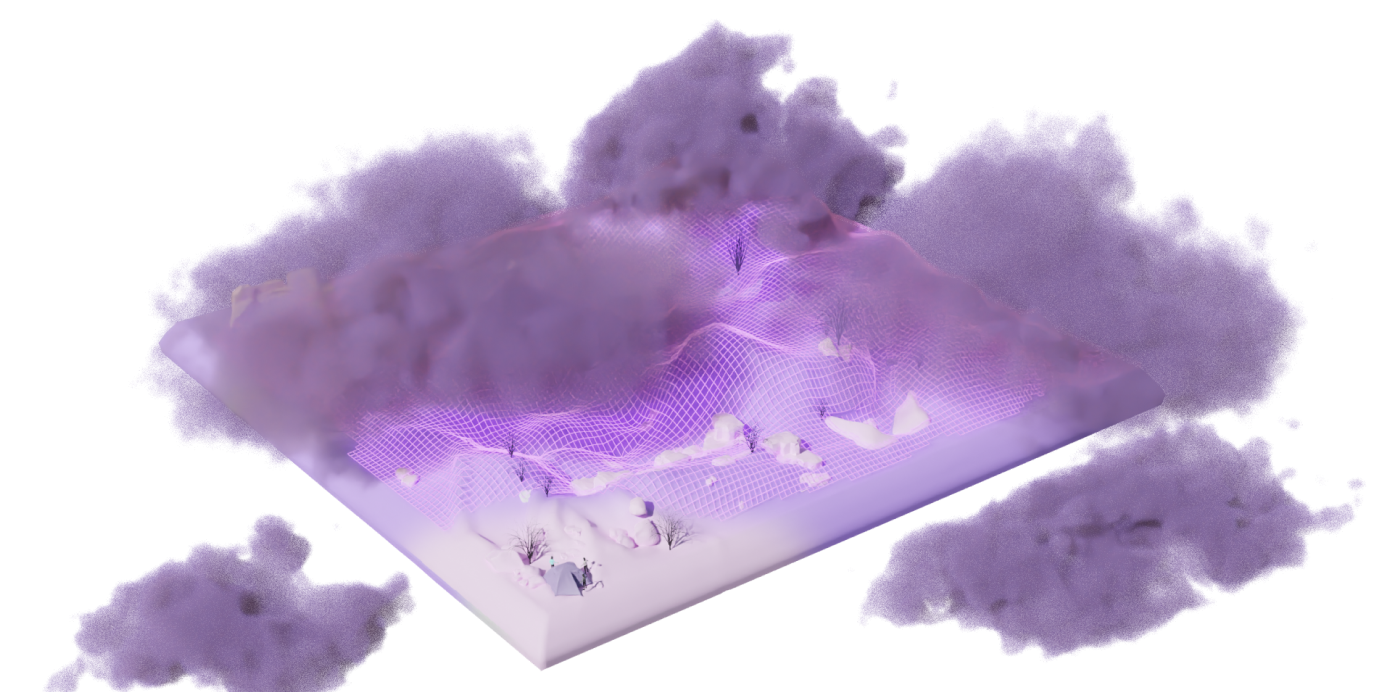
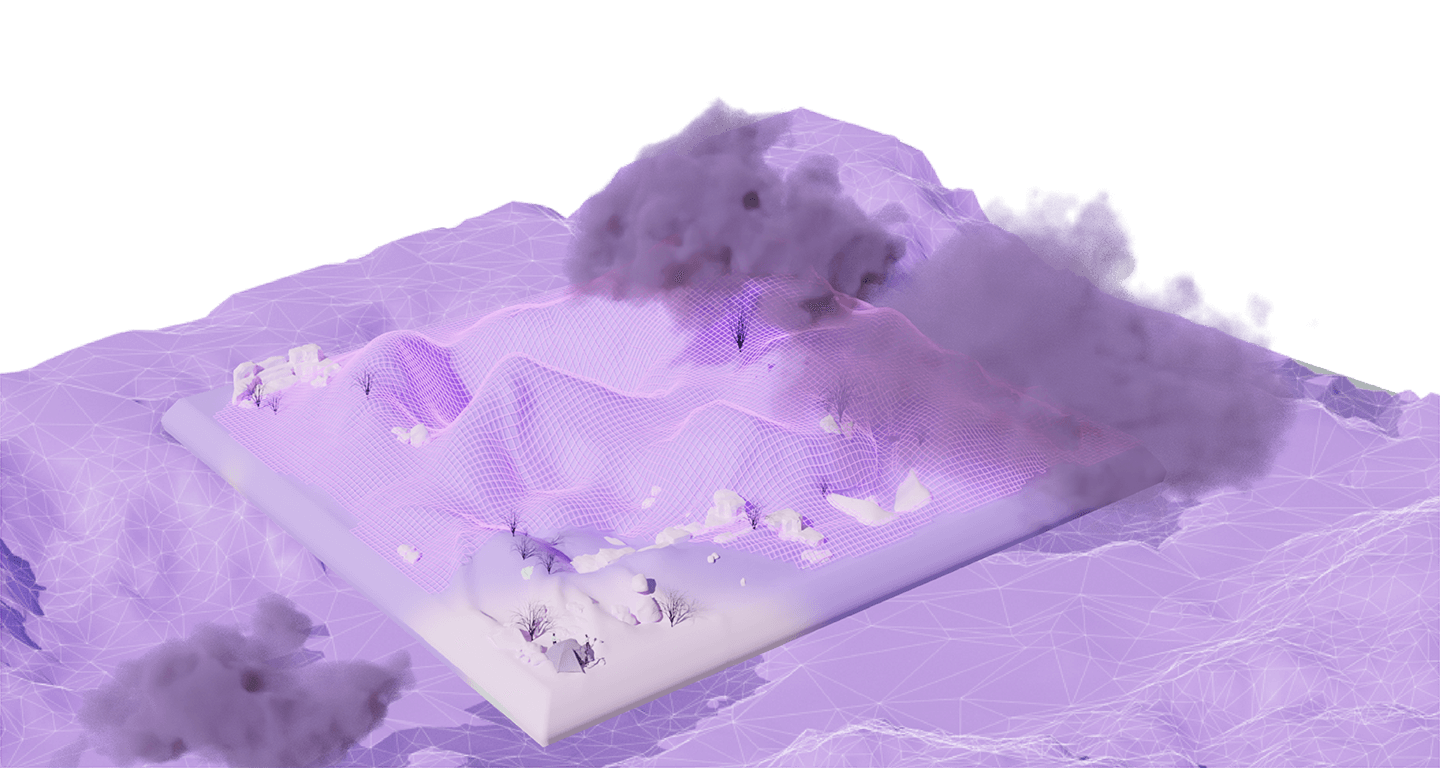
add story&faq btn in nav in dashboard

diff --git a/pages/invaria2222.jsx b/pages/invaria2222.jsx
@@ -4,7 +4,7 @@ import { Twitter, Discord } from '../components/icons/Link'
 import { ScrollToTop, QA, Footer, Navbar, ModalStory } from '../components';
 import { tutorialsList, faqList } from "../src/constants";
 import Image from 'next/image'
-import {disableScroll} from '../src/utils/disableScroll'
+import { disableScroll } from '../src/utils/disableScroll'
 
 function App() {
   const [headerBackground, setHeaderBackground] = useState(true);
@@ -23,21 +23,16 @@ function App() {
       <Navbar headerBackground={headerBackground} />
       <ModalStory />
       <div className="w-full flex flex-col justify-center items-center h-0 ">
-        <label htmlFor="my-modal-1" onClick={()=>disableScroll()} className="btn modal-button w-[183px] md:w-min btnShadow bg-white opacity-80 hover:bg-white px-6 py-3 text-sm text-info rounded absolute top-[272px] md:top-[408px] md:left-[245px] z-20 normal-case border-none">
+        <label htmlFor="my-modal-1" onClick={() => disableScroll()} className="btn modal-button w-[183px] md:w-min btnShadow bg-white opacity-80 hover:bg-white px-6 py-3 text-sm text-info rounded absolute top-[272px] md:top-[408px] md:left-[245px] z-20 normal-case border-none">
           Storyline</label>
         <a href={`#faq`} className='btn w-[183px] md:w-max btnShadow bg-white opacity-80 hover:bg-white px-6 py-3 mt-4 md:mt-0 text-sm text-info rounded absolute top-[328px] md:top-[280px] md:right-1/4 normal-case border-none z-20 ' >
           FAQ & Tutorials</a>
       </div>
       <div className="relative">
-        <img className='h-screen min-h-screen w-full object-cover ' draggable="false" src='/bg/bg_phase0.png' alt="bg_phase0" />
-        {/* <div className="hidden md:flex flex-col max-w-0 "> */}
-        <img className=" cloud1 absolute top-56 md:top-[161px] -left-16 md:left-8 right-0 w-[700px] md:w-[700px] object-contain z-10 " draggable="false" src='/cloud1.png' alt="cloud1" />
-        <img className=" cloud2 absolute top-[430px] -right-20 md:right-0 w-[600px] md:w-[600px] object-contain z-10 " draggable="false" src='/cloud2.png' alt="cloud2" />
-        {/* </div> */}
-        {/* <div className=" flex md:hidden ">
-          <img className=" absolute top-56 md:top-[161px] -left-16 md:left-8 right-0 w-[700px] md:w-[700px] object-contain z-10" src='/cloud1.png' alt="cloud1" />
-          <img className=" absolute top-96 md:top-[430px] right-0 w-[350px] md:w-[600px] object-contain z-10" src='/cloud2.png' alt="cloud2" />
-        </div> */}
+        <img className=' absolute top-0 h-screen min-h-screen w-full object-cover ' draggable="false" src='/bg/bg_phase0.png' alt="bg_phase0" />
+        <img className=' z-0 h-screen min-h-screen w-full object-cover ' draggable="false" src='/bg/bg_land.png' alt="bg_land" />
+        {/* <img className=" cloud1 absolute top-56 md:top-[161px] -left-16 md:left-8 right-0 w-[700px] md:w-[700px] object-contain z-10 " draggable="false" src='/cloud1.png' alt="cloud1" />
+        <img className=" cloud2 absolute top-[430px] -right-20 md:right-0 w-[600px] md:w-[600px] object-contain z-10 " draggable="false" src='/cloud2.png' alt="cloud2" /> */}
         <div className='mt-[88px]  hidden absolute top-0 left-[24px] md:flex flex-row items-start justify-start h-[592px] w-[325px] text-white indent-0.5 font-normal text-sm z-10 animate-fade-in-down'>
           <div className='flex flex-col items-center justify-center mr-3 '>
             <span className="flex h-3 w-3 justify-center items-center">
@@ -46,12 +41,12 @@ function App() {
             </span>
             <div className='h-[540px] w-[1px] border-l bg-white -mt-1 z-0'></div>
           </div>
-            「Year… 2222, Location… InVaria, Weather…
-            Radiation Fog and Cold」Something is
-            happening in this world…
-            <br /><br />
-            Build up communication channel… Discord
-            set up… Twitter launched… Now we can communicate, discuss with each others about InVaria and the ideas we have there!
+            A tribe of humans find out a device with 
+            “CRYPTIC REFLECTOR” words carved on it, 
+            there is an unclear description shows…
+            「Connecting…Connecting…, Connect to 
+            Real World, the Reflector Indicate Power… 
+            Asset will…」
         </div>
         <div className="m-6 flex justify-between absolute bottom-[0px] right-0 z-20">
           <Twitter />

diff --git a/components/Navbar.jsx b/components/Navbar.jsx
@@ -1,5 +1,6 @@
 import React, { useEffect, useState } from 'react'
 import Link from 'next/link'
+import { useRouter } from 'next/router'
 import { ethers } from 'ethers'
 import { useNetwork, useAddress, useMetamask, useWalletConnect, useDisconnect } from '@thirdweb-dev/react'
 import { SiweMessage } from 'siwe'
@@ -10,6 +11,7 @@ import { fetchPrice } from '../src/utils/fetchPrice'
 import { disableScroll, enableScroll } from '../src/utils/disableScroll'
 
 const Navbar = ({ headerBackground }) => {
+  const router = useRouter()
   const address = useAddress();
   const network = useNetwork();
   const [getCoinPrice, setgetCoinPrice] = useState()
@@ -22,7 +24,11 @@ const Navbar = ({ headerBackground }) => {
   const connectWithWalletConnect = useWalletConnect();
   const disconnectWallet = useDisconnect();
   let domain, ethereum, provider, signer
+  if (typeof window !== 'undefined') {
+    const hostname = window.location.host;
+    console.log("fsf", router.pathname, hostname)
 
+  }
   const checkIfWalletIsConnected = async () => {
     ethereum = window?.ethereum
     if (!ethereum) return
@@ -62,8 +68,18 @@ const Navbar = ({ headerBackground }) => {
         ${headerBackground ? "md:bg-invar-dark" : "md:bg-transparent"}`}>
         <ModalWallet />
         <ModalStory />
-        <div className="navbar w-full sticky top-0 left-0 right-0 bg-[#fff0] md:justify-center items-center h-[60px] md:h-[88px] flex">
-          <div className="navbar-start"></div>
+        <div className="navbar w-full sticky top-0 left-0 right-0 bg-[#fff0] md:justify-center items-center h-[60px] md:h-[80px] flex">
+          <div className="navbar-start h-[80px] flex justify-start items-center">
+            {(router.pathname == "/dashboard") &&
+              <>
+                <label htmlFor="my-modal-1" className="btn bg-transparent hover:bg-transparent border-0 h-[40px] w-[130px] px-[11px] py-[1px] my-[12px] ml-4 font-semibold text-sm text-invar-light-grey normal-case hover:underline">
+                  Storyline</label>
+                <Link href='invaria2222/#faq'>
+                  <p className="btn bg-transparent hover:bg-transparent border-0 h-[40px] w-[130px] px-[11px] py-[1px] my-[12px] font-semibold text-sm text-invar-light-grey normal-case hover:underline" >FAQ & Tutorials</p>
+                </Link>
+              </>
+            }
+          </div>
           <div className="navbar-center">
             <Link href='invaria2222'>
               <img className="m-6 h-[2.5rem] w-24 xl:w-32 cursor-pointer" src='/logo_white.svg' />

diff --git a/components/ModalStory.jsx b/components/ModalStory.jsx
@@ -34,7 +34,7 @@ const ModalStory = () => {
           </div>
           {/* story 1 */}
           {/* story 2 */}
-          {/* <div className="h-[188px] w-full flex px-[36px] pt-[54px] justify-start items-start">
+          <div className="h-[188px] w-full flex px-[36px] pt-[54px] justify-start items-start">
             <img className="h-[86px] w-[154px] mr-[44px]" src='/story/img_story2.png' alt="" />
             <div className='flex flex-col items-center justify-center mr-6'>
               <span className="flex h-3 w-3 justify-center items-center">
@@ -46,7 +46,7 @@ const ModalStory = () => {
             <div className=" w-[485px] font-noraml text-sm">
               A tribe of humans find out a device with &quot;CRYPTIC REFLECTOR&quot; words carved on it, there is an unclear description shows…「Connecting…Connecting…, Connect to Real World, the Reflector Indicate Power… Asset will…」
             </div>
-          </div> */}
+          </div>
           {/* story 2 */}
           {/* story 3 */}
           {/* <div className="h-[188px] w-full flex px-[36px] pt-[34px] bg-primary justify-start items-start">
@@ -125,7 +125,7 @@ const ModalStory = () => {
           </div>
           {/* story 1 */}
           {/* story 2 */}
-          {/* <div className=" relative w-full flex px-[24px] py-[24px] justify-start items-start">
+          <div className=" relative w-full flex px-[24px] py-[24px] justify-start items-start">
             <div className='flex flex-col items-center justify-center mr-6'>
               <span className="flex h-3 w-3 justify-center items-center z-20">
                 <span className="animate-ping absolute inline-flex h-3 w-3 rounded-full bg-white opacity-75"></span>
@@ -139,7 +139,7 @@ const ModalStory = () => {
                 A tribe of humans find out a device with “CRYPTIC REFLECTOR” words carved on it, there is an unclear description shows…「Connecting…Connecting…, Connect to Real World, the Reflector Indicate Power… Asset will…」
               </div>
             </div>
-          </div> */}
+          </div>
           {/* story 2 */}
           {/* story 3 */}
           {/* <div className=" relative w-full flex px-[24px] py-[24px] bg-primary justify-start items-start">

diff --git a/pages/api/krypto.js b/pages/api/krypto.js
@@ -1,0 +1,16 @@
+var axios = require('axios');
+
+var config = {
+  method: 'get',
+  url: 'https://external-api.kryptogo.com/tasks',
+  headers: { }
+};
+
+axios(config)
+.then(function (response) {
+  console.log(JSON.stringify(response.data));
+})
+.catch(function (error) {
+  console.log(error);
+});
+
